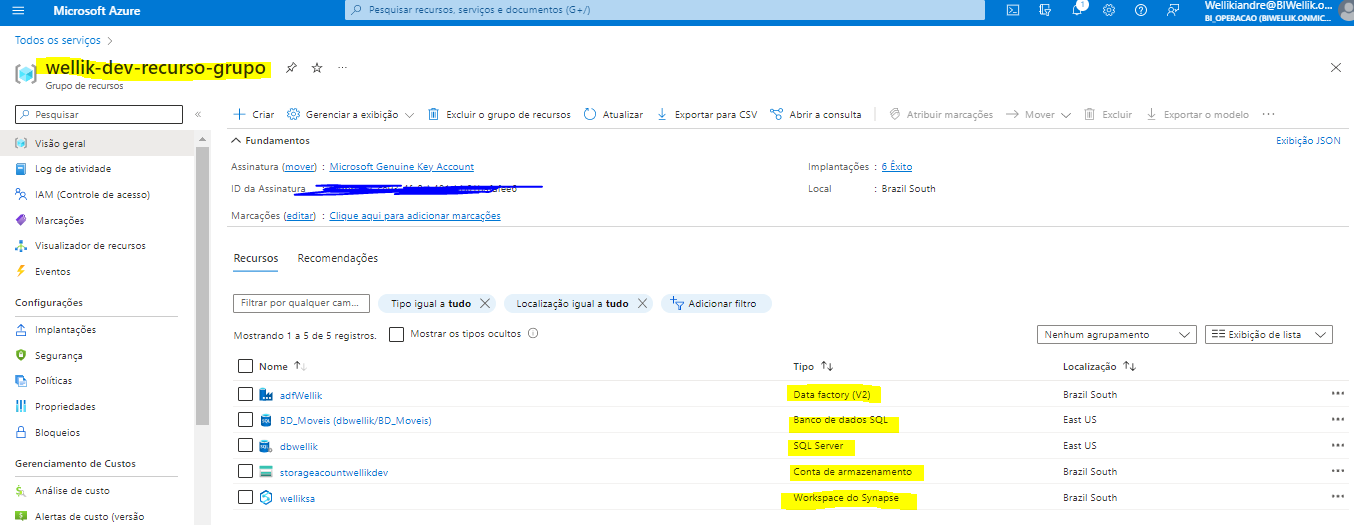
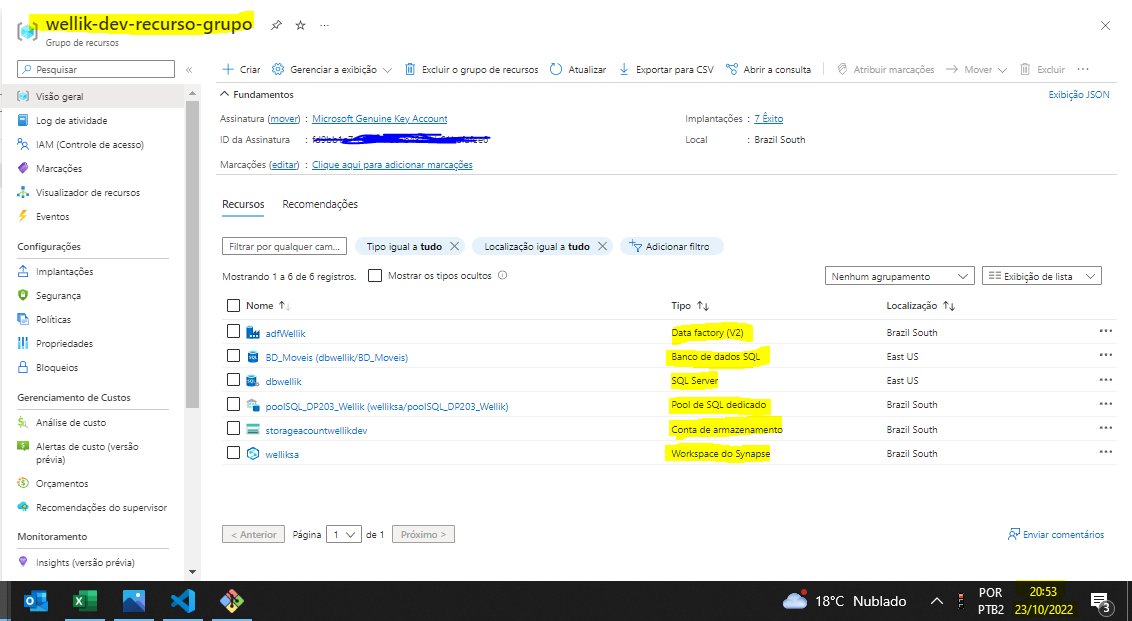
Print das Execuções

diff --git a/Readme.md b/Readme.md
@@ -8,7 +8,7 @@
   <!-- <a href="https://www.linkedin.com/in/wellikiandre/">LinkdeIn</a> -->
 </div>
 
-<h2 align="center">Formação Engenharia de Dados e Big Data (Azure e DataBricks)</h2>
+<h2 align="center">Formação Engenharia de Dados e Big Data (DP-203)</h2>
 
 <p align="center">
     <a href="https://www.linkedin.com/in/wellikiandre/">
@@ -74,6 +74,13 @@ Neste projeto foram utilizadas as seguintes ferramentas:
 Segue os prints das execuções em ambiente cloud
 
 
+:clock12: **Gerenciamento de Recursos**
+<p>
+<img src="img/gerenciamento_recurso1.PNG" width="500px" />
+<img src="img/gerenciamento_recurso2.PNG" width="500px" />
+</p></br>
+
+
 :file_folder: **Azure Blob Storage**
 Exemplo de execução, não implementado pois não havia necessidade.
 <p>
@@ -107,11 +114,12 @@ Exemplo de execução, implementado pois data lake no formato delta.
  <img src="img/Synapse1.PNG" width="500px" />
 </p></br>
 
-:books: **Pool SQL PolyBAse Consulta Distribuida**
+:books: **Pool SQL PolyBase Consulta Distribuida**
 <p>
  <img src="img/PollSQL.PNG" width="500px" />
  <img src="img/PollConsultaDistribuida.PNG" width="500px" />
  <img src="img/PollSQL2.PNG" width="500px" />
+ <img src="img/PollSQL1.PNG" width="500px" />
 </p></br>
 
 
@@ -134,11 +142,6 @@ Exemplo de execução, implementado pois data lake no formato delta.
 
 
 
-:clock12: **Gerenciamento de Recursos**
-<p>
-<img src="img/gerenciamento_recurso1.PNG" width="500px" />
-<img src="img/gerenciamento_recurso2.PNG" width="500px" />
-</p></br>
 
 
 <a href="#top">Back to top</a>
